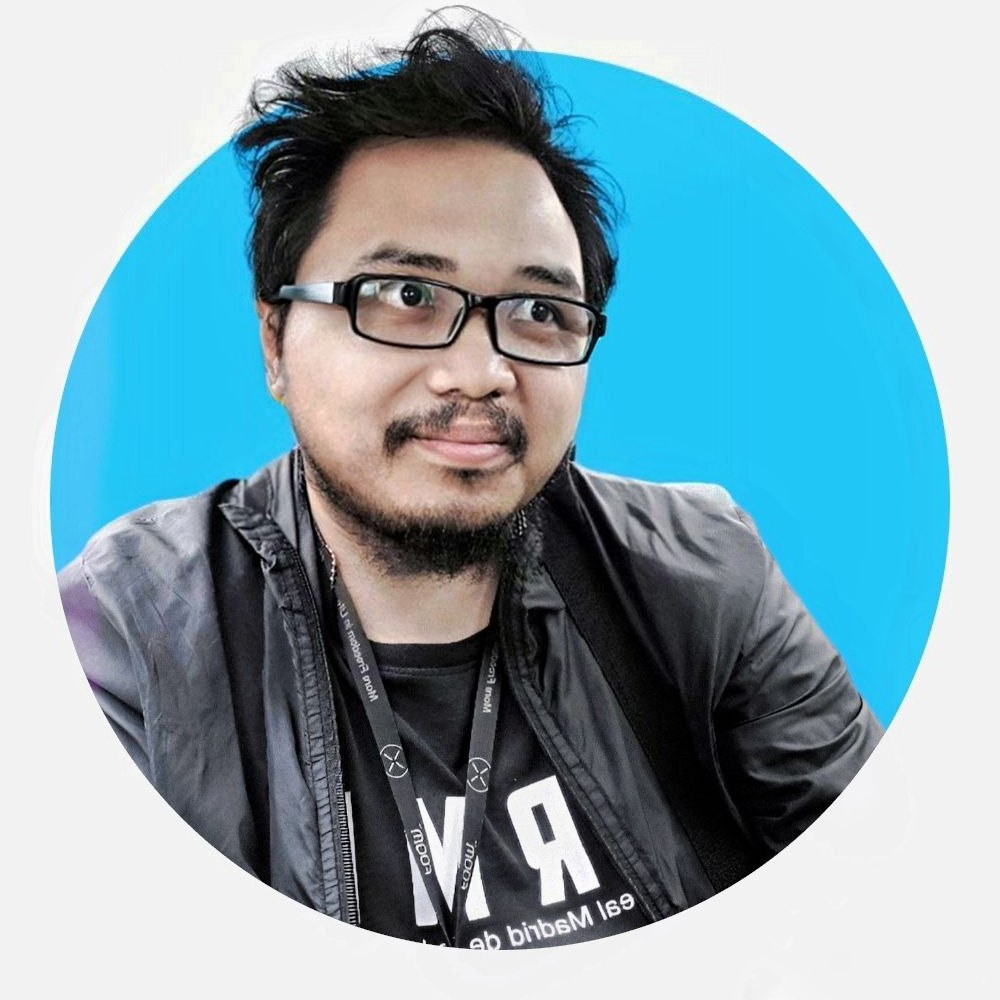
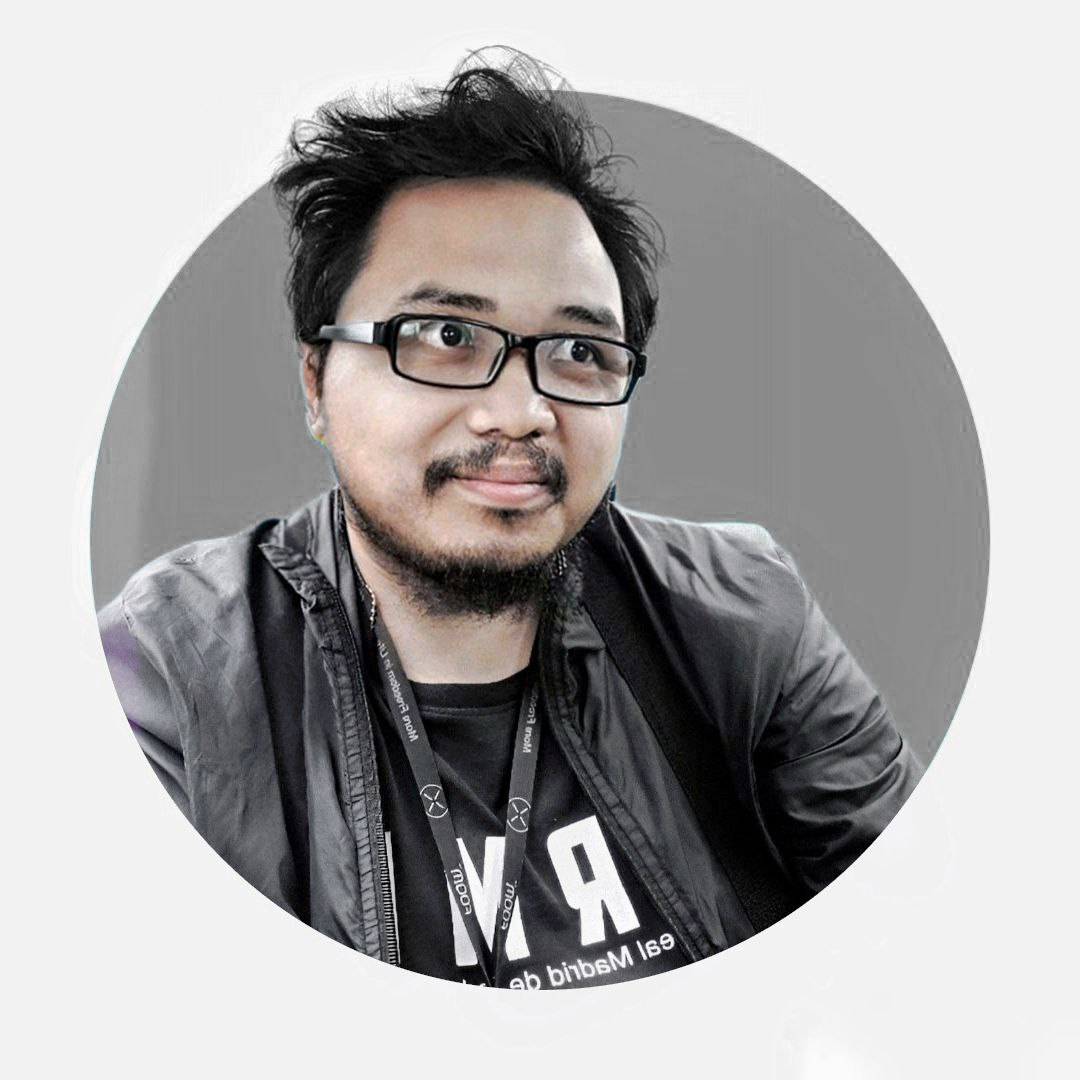
Photo and Hover Adjustment

diff --git a/style.css b/style.css
@@ -163,7 +163,7 @@ a {
 .alias:hover,
 .alias:active,
 .alias:focus {
-  color: #21c6f6;
+  color: #888;
 }
 
 span._alias {
@@ -186,14 +186,16 @@ img {
   box-shadow: 3px 3px 5px rgba(0, 0, 0, 0.5);
   animation: appear 1.5s ease-in-out;
   opacity: 1;
-  transition: opacity 0.5s;
+  transition: all 0.3s;
   cursor: pointer;
 }
 
 .profile-photo:hover,
 .profile-photo:active,
 .profile-photo:focus {
-  opacity: 0.7;
+  width: 130px;
+  height: 130px;
+  margin: 10px;
 }
 
 .hidden {
@@ -245,8 +247,8 @@ img {
 .link:hover,
 .link:active,
 .link:focus {
-  background-color: #21c6f6;
-  color: #fff;
+  background-color: #ccc;
+  color: #333;
 }
 
 .link-ready {
